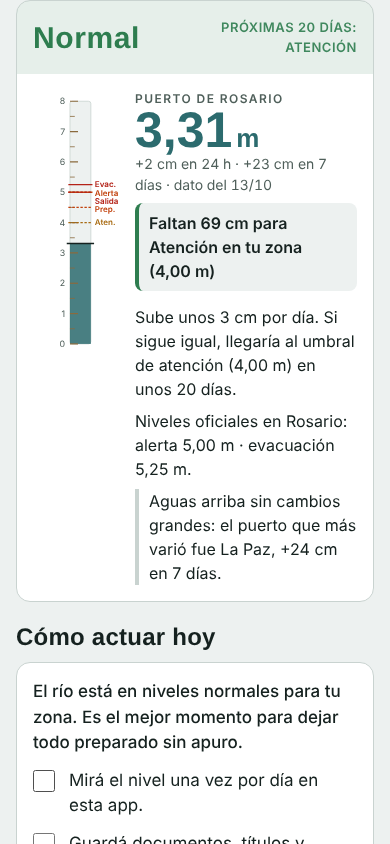
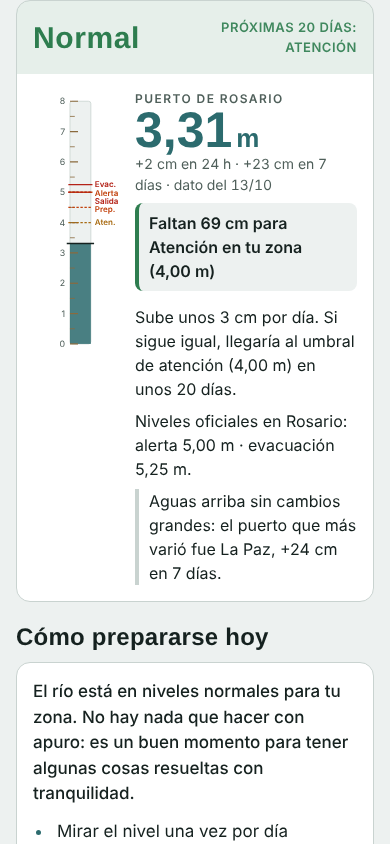
Cómo prepararse hoy: tono de prevención, sin tildes ni recuadro de alarma
Claude-Session: https://claude.ai/code/session_01EvfbsbDs6XQPSvha7pPTLa

diff --git a/app.js b/app.js
@@ -8,16 +8,16 @@ var HORIZONTE = 20;     // días de proyección de tendencia
 
 var LVL = [{id:"normal",nombre:"Normal"},{id:"atencion",nombre:"Atención"},{id:"preparacion",nombre:"Preparación"},{id:"salida",nombre:"Salida"}];
 var LEAD = {
-  normal:"El río está en niveles normales para tu zona. Es el mejor momento para dejar todo preparado sin apuro.",
-  atencion:"El río sube y se acerca a niveles que afectan a tu zona. Preparate ahora, con tiempo.",
-  preparacion:"El río está cerca del nivel de alerta de tu zona. Dejá todo listo para salir si hace falta.",
-  salida:"El río llegó al nivel de salida de tu zona. No esperes la evacuación oficial: salí ahora si tu casa está en zona baja."
+  normal:"El río está en niveles normales para tu zona. No hay nada que hacer con apuro: es un buen momento para tener algunas cosas resueltas con tranquilidad.",
+  atencion:"El río viene subiendo y se acerca a niveles que empiezan a importar en tu zona. Todavía hay tiempo de sobra; conviene ir preparando algunas cosas sin apuro.",
+  preparacion:"El río está cerca del nivel de alerta de tu zona. Es momento de dejar todo listo, con calma, para que si hace falta salir no haya que improvisar.",
+  salida:"El río llegó al nivel que en tu zona indica salir. Si tu casa está en un lugar bajo, lo más seguro es irte ahora, con calma, al lugar que ya tenías pensado."
 };
 var TODO = {
-  normal:["Mirá el nivel una vez por día en esta app.","Guardá documentos, títulos y recetas médicas en una bolsa hermética, en un lugar alto.","Definí a dónde irías y cómo (casa de un familiar, escuela, centro de evacuados) y por qué ruta.","Anotá los teléfonos de Defensa Civil de tu ciudad y de la vecinal."],
-  atencion:["Dejá un bolso armado: ropa, cargadores, documentos, medicamentos, agua.","Si vivís cerca de un terraplén o defensa, recorrelo: zanjas, partes hundidas, pozos o cuevas son señales de alerta.","Organizá dónde van los animales si hay que salir.","Avisá a vecinos mayores o que viven solos: que sepan que el río sube.","Sumate al grupo de WhatsApp de tu vecinal para recibir avisos."],
-  preparacion:["Subí electrodomésticos, colchones, papeles y cosas de valor a lugares altos.","Sacá el auto o la moto de las zonas bajas.","Confirmá el lugar al que vas y avisá a tu familia.","Dejá agua potable guardada y la garrafa o el gas cerrados si salís.","Revisá el terraplén todos los días; cualquier filtración, avisá al 103."],
-  salida:["Salí de la casa con tu bolso. No esperes a que el agua entre.","Cortá la luz y el gas antes de irte.","Avisá a la familia y a la vecinal que saliste y a dónde.","No cruces calles con agua en movimiento, ni a pie ni en auto.","Ayudá a vecinos mayores o con movilidad reducida a salir."]
+  normal:["Mirar el nivel una vez por día alcanza; esta app se actualiza a la mañana y a la tarde.","Tener documentos, títulos y recetas médicas juntos en una bolsa cerrada, en un lugar alto, ahorra apuros después.","Pensar a dónde irías si hiciera falta (un familiar, una escuela) y por qué camino, da tranquilidad.","Anotar el teléfono de la vecinal y de Defensa Civil de tu ciudad."],
+  atencion:["Un bolso con ropa, cargadores, documentos y medicamentos, listo en un lugar a mano.","Si vivís cerca de un terraplén, vale la pena recorrerlo de vez en cuando: zanjas, partes hundidas o pozos son cosas para avisar a la vecinal o al municipio.","Pensar dónde irían los animales si hubiera que salir.","Conversar con vecinos mayores o que viven solos, para que sepan que el río viene subiendo.","Sumarse al grupo de la vecinal es la mejor forma de enterarse de los avisos."],
+  preparacion:["Ir subiendo a lugares altos lo que se dañaría con agua: electrodomésticos, colchones, papeles, fotos.","Dejar el auto o la moto en un lugar alto.","Confirmar con la familia el lugar al que irían y cómo.","Tener agua potable guardada.","Mirar el terraplén más seguido; cualquier filtración se avisa al 103."],
+  salida:["Salir con el bolso que ya tenés armado, sin cargar de más.","Cortar la luz y el gas antes de irte.","Avisar a la familia y a la vecinal que saliste y a dónde.","Evitar cruzar calles con agua en movimiento, a pie o en auto.","Si tenés vecinos mayores o con movilidad reducida, acompañarlos a salir."]
 };
 
 var $ = function(id){ return document.getElementById(id); };
@@ -243,14 +243,10 @@ function render(){
 }
 function upstreamOf(e,n){ return D.est.filter(function(x){return x.orden<e.orden;}).sort(function(a,b){return b.orden-a.orden;}).slice(0,n); }
 function renderTodo(lvl,z){
-  var key=LVL[lvl].id, done=store.get("vigia.todo")||{};
+  var key=LVL[lvl].id;
   $("actuarLead").textContent=LEAD[key];
   var ul=$("todo"); ul.textContent="";
-  TODO[key].forEach(function(txt,i){
-    var id="todo-"+key+"-"+i, li=document.createElement("li"), cb=document.createElement("input"); cb.type="checkbox"; cb.id=id; cb.checked=!!done[id];
-    cb.addEventListener("change",function(){ var d=store.get("vigia.todo")||{}; d[id]=cb.checked; store.set("vigia.todo",d); });
-    var lb=document.createElement("label"); lb.htmlFor=id; lb.textContent=txt; li.appendChild(cb); li.appendChild(lb); ul.appendChild(li);
-  });
+  TODO[key].forEach(function(txt){ var li=document.createElement("li"); li.textContent=txt; ul.appendChild(li); });
   var vg=$("vigilar"); vg.textContent=""; var b=document.createElement("b"); b.textContent="En tu zona: "; vg.appendChild(b); vg.appendChild(document.createTextNode(z.vigilar));
 }
 function renderUp(e){

diff --git a/app.css b/app.css
@@ -87,13 +87,12 @@ details.sub>summary{cursor:pointer;color:var(--water);font-weight:600}
 .block{display:flex;flex-direction:column;gap:12px}
 .actuar{display:flex;flex-direction:column;gap:12px}
 .actuar-lead{font-size:17px;font-weight:500}
-.todo{list-style:none;margin:0;padding:0;display:flex;flex-direction:column;gap:12px}
-.todo li{display:grid;grid-template-columns:26px minmax(0,1fr);gap:10px;align-items:start}
-.todo input{width:22px;height:22px;margin:2px 0 0;accent-color:var(--water)}
-.todo label{cursor:pointer}
+.todo{margin:0;padding-left:20px;display:flex;flex-direction:column;gap:10px}
+.todo li{padding-left:4px}
+.todo li::marker{color:var(--water)}
 .vigilar{font-size:16px;background:var(--bg);border-radius:10px;padding:10px 12px}
-.urgent{background:var(--crit-bg);border-radius:10px;padding:12px;font-size:16px}
-.urgent b{color:var(--crit)} .tel{font-weight:700;font-size:18px}
+.contacto{font-size:15.5px;color:var(--muted);border-top:1px solid var(--line);padding-top:12px}
+.tel{font-weight:700;font-size:17px;color:var(--ink)}
 .chart svg{display:block;width:100%;height:auto}
 .legend{display:flex;flex-wrap:wrap;gap:6px 14px;font-size:13.5px;color:var(--muted);margin-top:6px}
 .legend i{display:inline-block;width:16px;height:3px;vertical-align:middle;margin-right:5px;border-radius:2px}

diff --git a/index.html b/index.html
@@ -98,12 +98,12 @@
 
     <!-- Cómo actuar hoy -->
     <section class="block">
-      <h2>Cómo actuar hoy</h2>
+      <h2>Cómo prepararse hoy</h2>
       <div class="card actuar">
         <p class="actuar-lead" id="actuarLead"></p>
         <ul class="todo" id="todo"></ul>
         <p class="vigilar" id="vigilar"></p>
-        <div class="urgent"><b>En cualquier nivel:</b> si ves agua brotando al pie de un terraplén, el suelo blando del lado de las casas o un desmoronamiento, salí y llamá a Defensa Civil: <span class="tel">103</span>. Emergencias: <span class="tel">911</span>.</div>
+        <p class="contacto">Ante cualquier duda, Defensa Civil atiende en el <span class="tel">103</span>. Si ves agua brotando al pie de un terraplén o un desmoronamiento, avisales: ellos saben qué hacer.</p>
       </div>
     </section>
 
